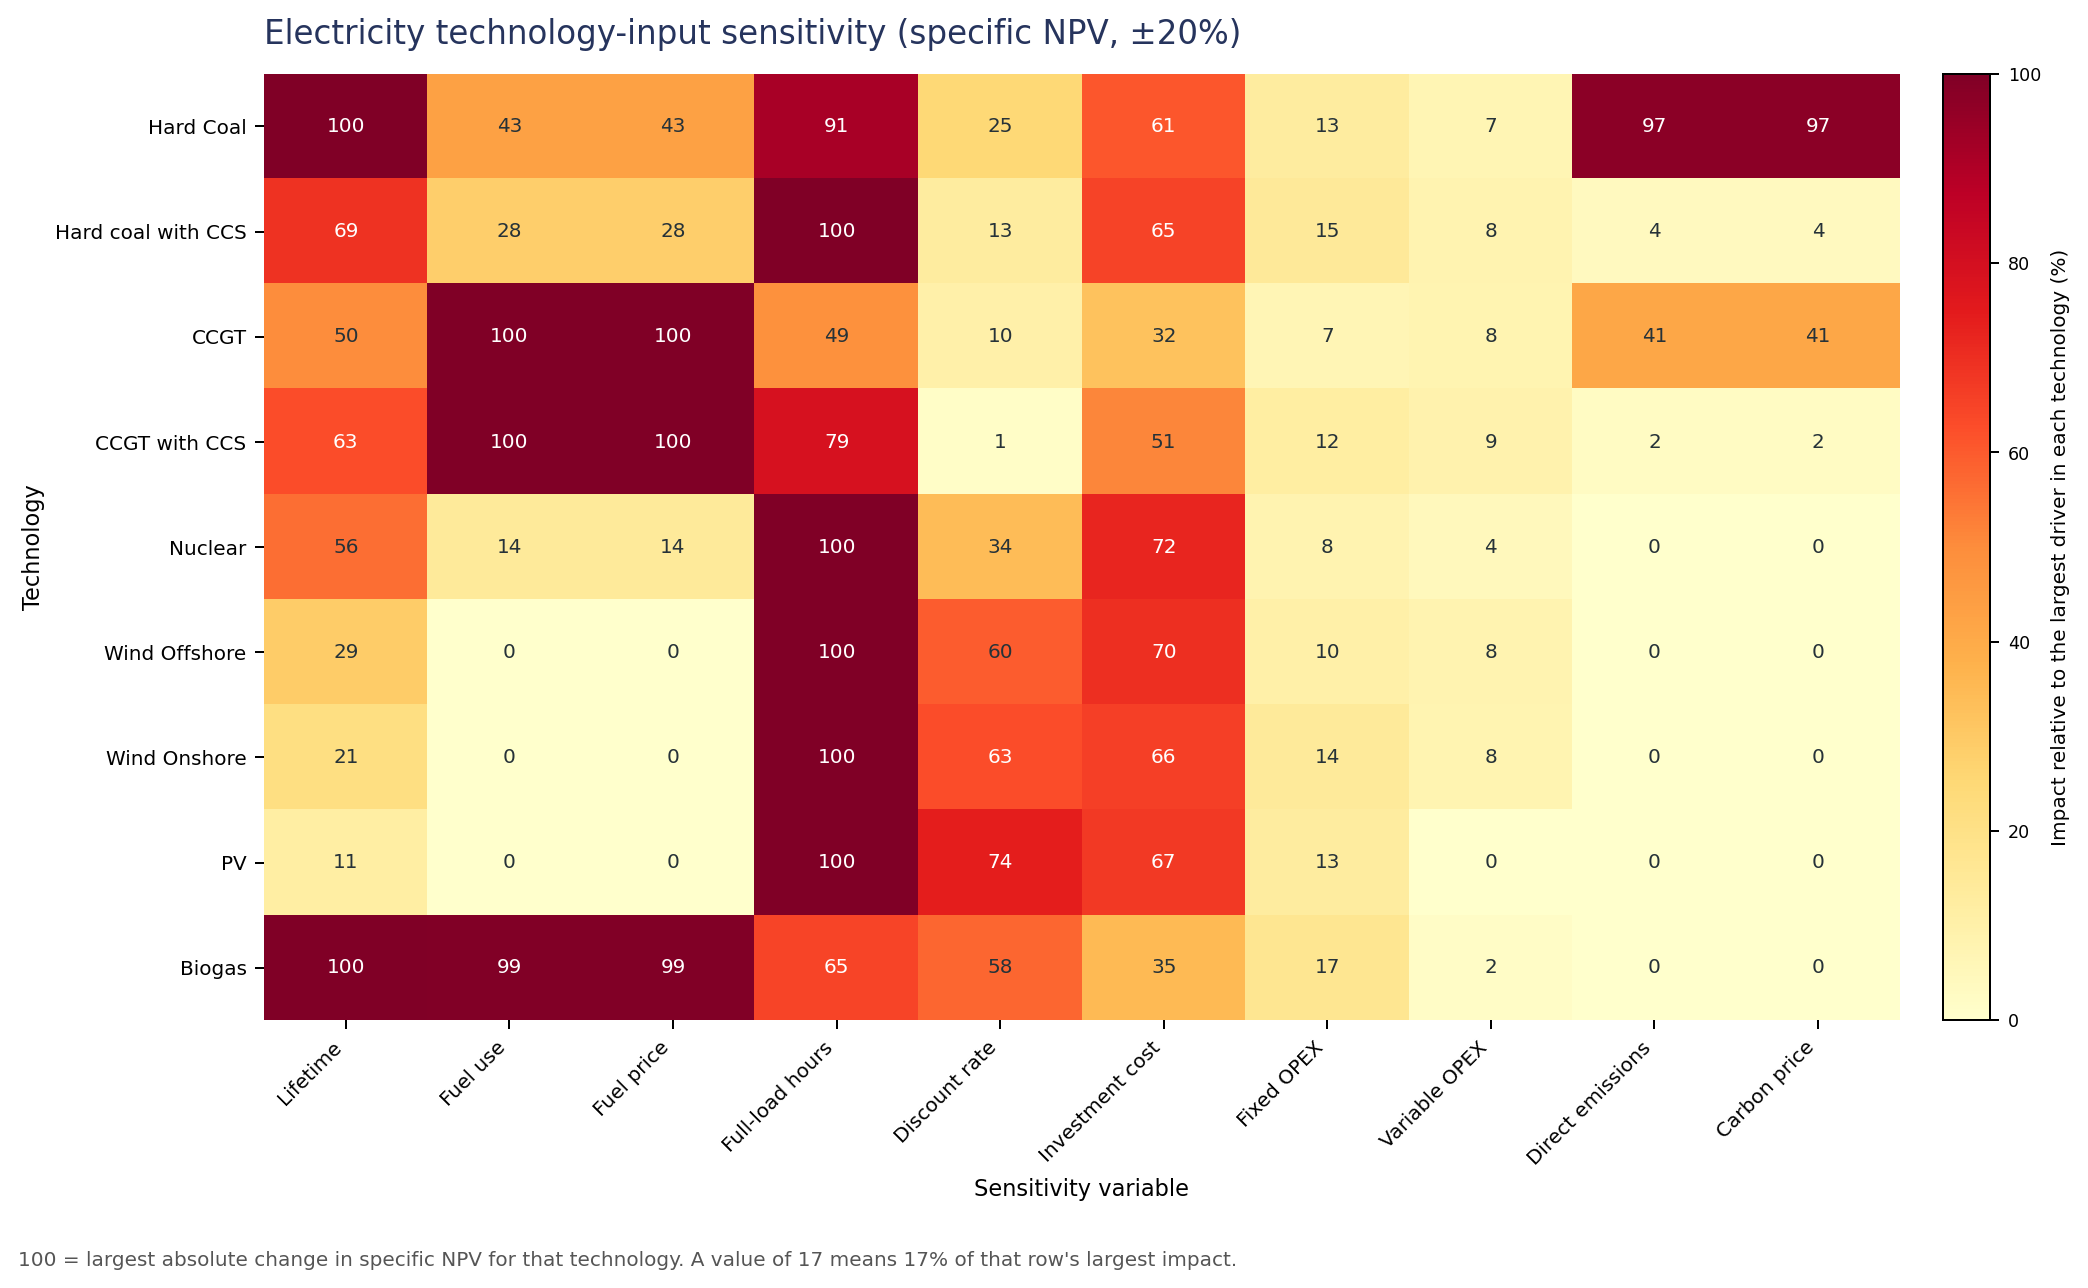
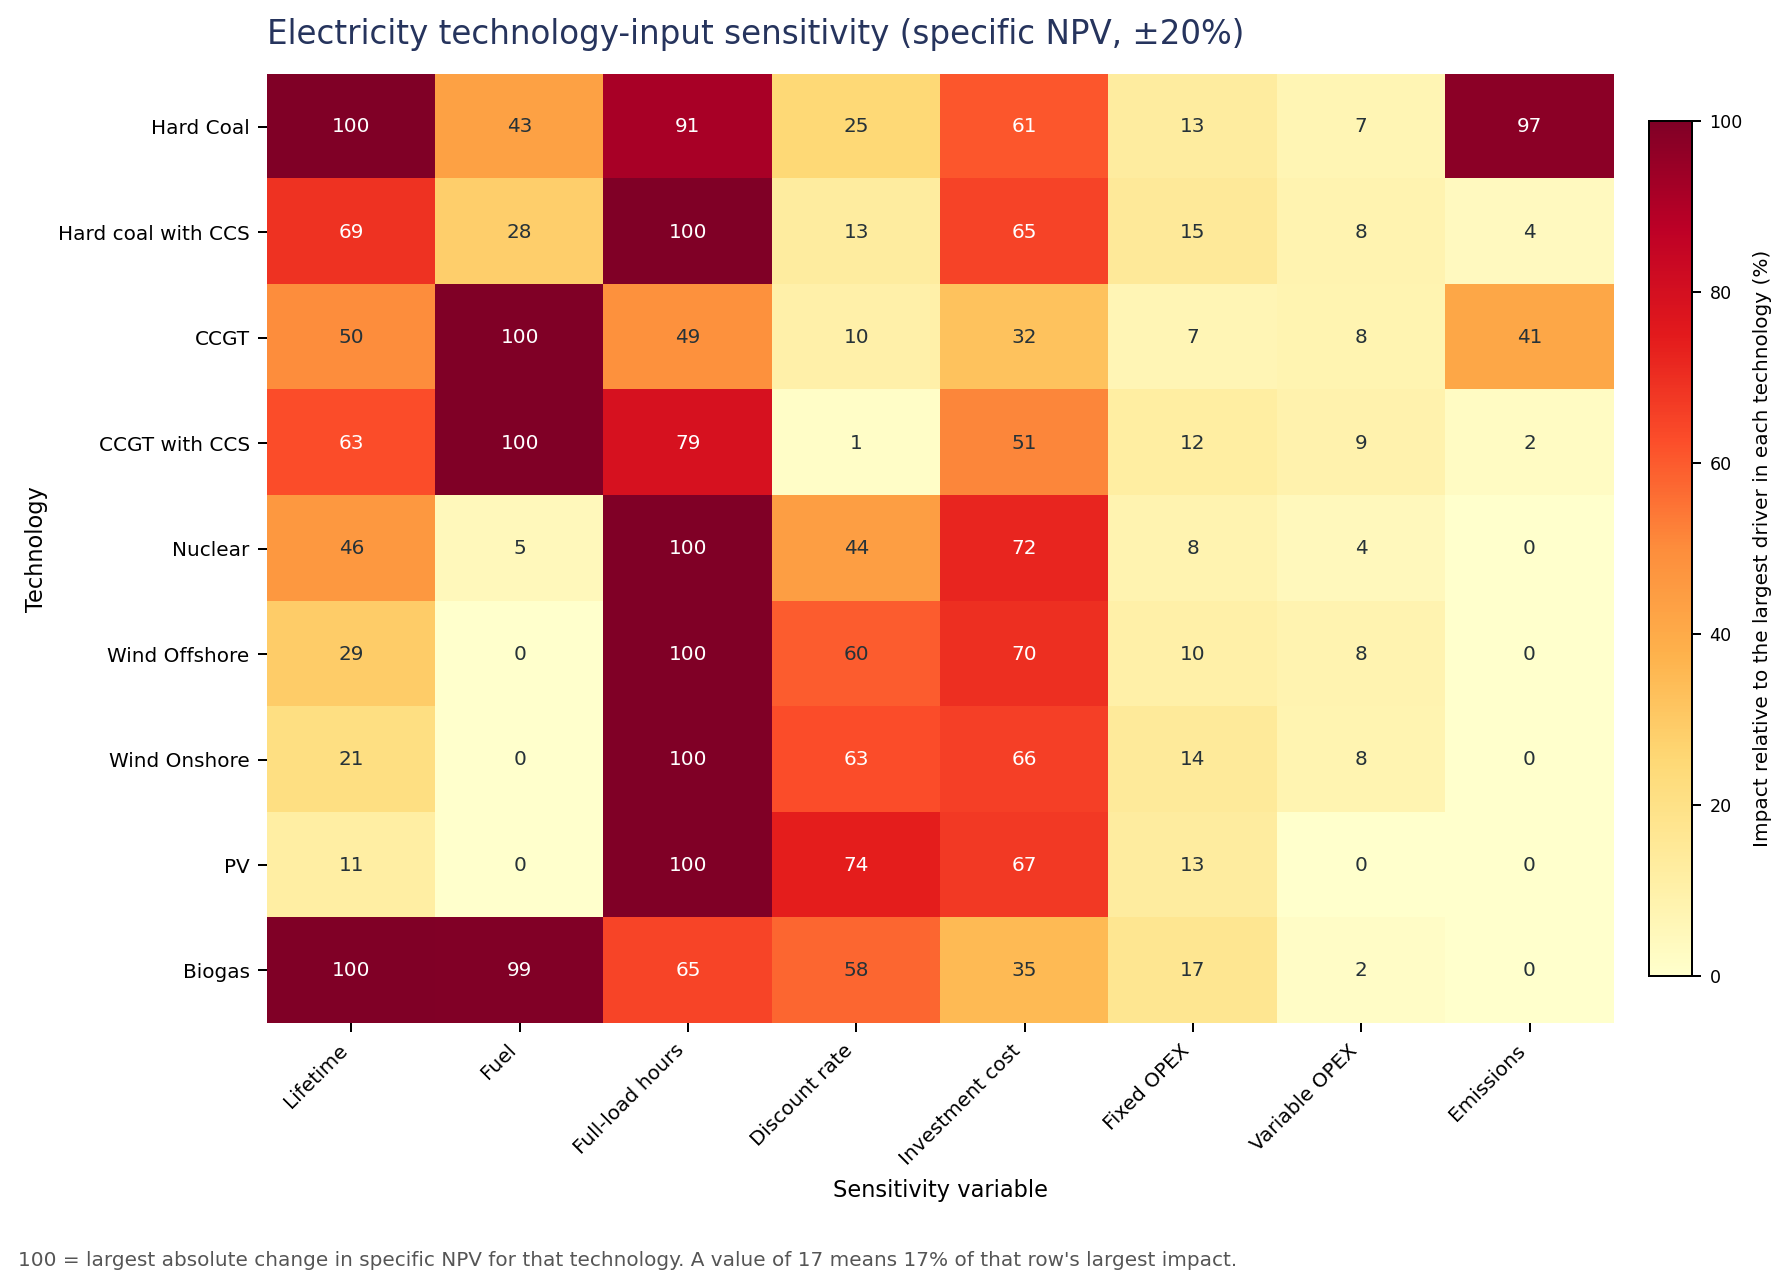
"Heatmap update"

diff --git a/src/sensitivity_deep_dive.py b/src/sensitivity_deep_dive.py
@@ -72,6 +72,23 @@ SENSITIVITY_SCOPE: Mapping[str, tuple[str, ...]] = {
     ),
 }
 
+HEATMAP_PARAMETER_GROUPS: Mapping[str, Mapping[str, str]] = {
+    "cement": {
+        "Fuel use": "Fuel",
+        "Fuel price": "Fuel",
+        "Electricity use": "Electricity",
+        "Electricity price": "Electricity",
+        "Direct emissions": "Emissions",
+        "Carbon price": "Emissions",
+    },
+    "electricity": {
+        "Fuel use": "Fuel",
+        "Fuel price": "Fuel",
+        "Direct emissions": "Emissions",
+        "Carbon price": "Emissions",
+    },
+}
+
 
 def _technology_label(technology: str) -> str:
     """Return a publication-friendly technology name."""
@@ -150,16 +167,29 @@ def build_sensitivity_heatmap_figure(
     """Build a within-technology relative sensitivity heatmap for one sector."""
 
     sector_data = standardized.loc[standardized["sector"] == sector].copy()
+    sector_data["heatmap_parameter"] = sector_data["parameter"].map(
+        HEATMAP_PARAMETER_GROUPS.get(sector, {})
+    ).fillna(sector_data["parameter"])
+    sector_data = (
+        sector_data.sort_values(["technology", "rank"])
+        .groupby(["technology", "heatmap_parameter"], as_index=False)
+        .agg(
+            relative_impact_percent=("relative_impact_percent", "max"),
+            rank=("rank", "min"),
+        )
+    )
     technologies = list(available_technologies(sector))
     parameters = list(
         dict.fromkeys(
-            sector_data.sort_values(["technology", "rank"])["parameter"].tolist()
+            sector_data.sort_values(["technology", "rank"])[
+                "heatmap_parameter"
+            ].tolist()
         )
     )
     relative = (
         sector_data.pivot(
             index="technology",
-            columns="parameter",
+            columns="heatmap_parameter",
             values="relative_impact_percent",
         )
         .reindex(index=technologies, columns=parameters)

diff --git a/CHANGELOG.md b/CHANGELOG.md
@@ -1,3 +1,55 @@
+## 2026-07-13 13:38 — Group duplicated sensitivity heatmap drivers
+
+### User request
+
+Combine sensitivity heatmap variables that carry the same linear information,
+specifically fuel use/fuel price, electricity use/electricity price, and
+emissions/carbon price.
+
+### Files changed (if needed)
+
+- `src/sensitivity_deep_dive.py` — grouped duplicate linear drivers only in the
+  heatmap display layer.
+- `figures/2026-06-24-Sensitivity_Heatmap_Standardized_Cement.png` — regenerated
+  with grouped Fuel, Electricity, and Emissions columns.
+- `figures/2026-06-24-Sensitivity_Heatmap_Standardized_Electricity.png` —
+  regenerated with grouped Fuel and Emissions columns.
+- `CHANGELOG.md` — documented the heatmap update.
+
+### What was implemented
+
+- Added sector-specific heatmap parameter groups:
+  Fuel, Electricity, and Emissions.
+- Kept the underlying one-at-a-time sensitivity table unchanged, so the raw
+  calculation still evaluates each original model input separately.
+- Collapsed grouped heatmap cells using the maximum relative impact within each
+  technology and group, which preserves the shared signal from linear product
+  terms.
+
+### Verification (if needed)
+
+- Commands run:
+  - `python3 -m py_compile src/sensitivity_deep_dive.py`
+  - `PYTHONPATH=src /opt/anaconda3/envs/master-thesis/bin/python - <<'PY' ...`
+- Result:
+  - The source file compiled successfully.
+  - The grouped cement and electricity heatmaps regenerated successfully.
+  - A sanity check confirmed grouped heatmap labels for cement and electricity.
+- Notes:
+  - The default system `python3` lacks `matplotlib`, so figure regeneration used
+    the thesis conda environment.
+
+### Reproducibility notes
+
+- No model parameters or scientific assumptions were changed.
+- Regenerate the full current dated outputs with:
+  `PYTHONPATH=src /opt/anaconda3/envs/master-thesis/bin/python src/sensitivity_deep_dive.py`
+
+### Next suggested step
+
+Inspect the regenerated heatmap PNGs in `figures/` and confirm the grouped
+columns match the intended thesis presentation.
+
 ## 2026-07-10 14:16 — Remove Excel plot export workflow
 
 ### User request